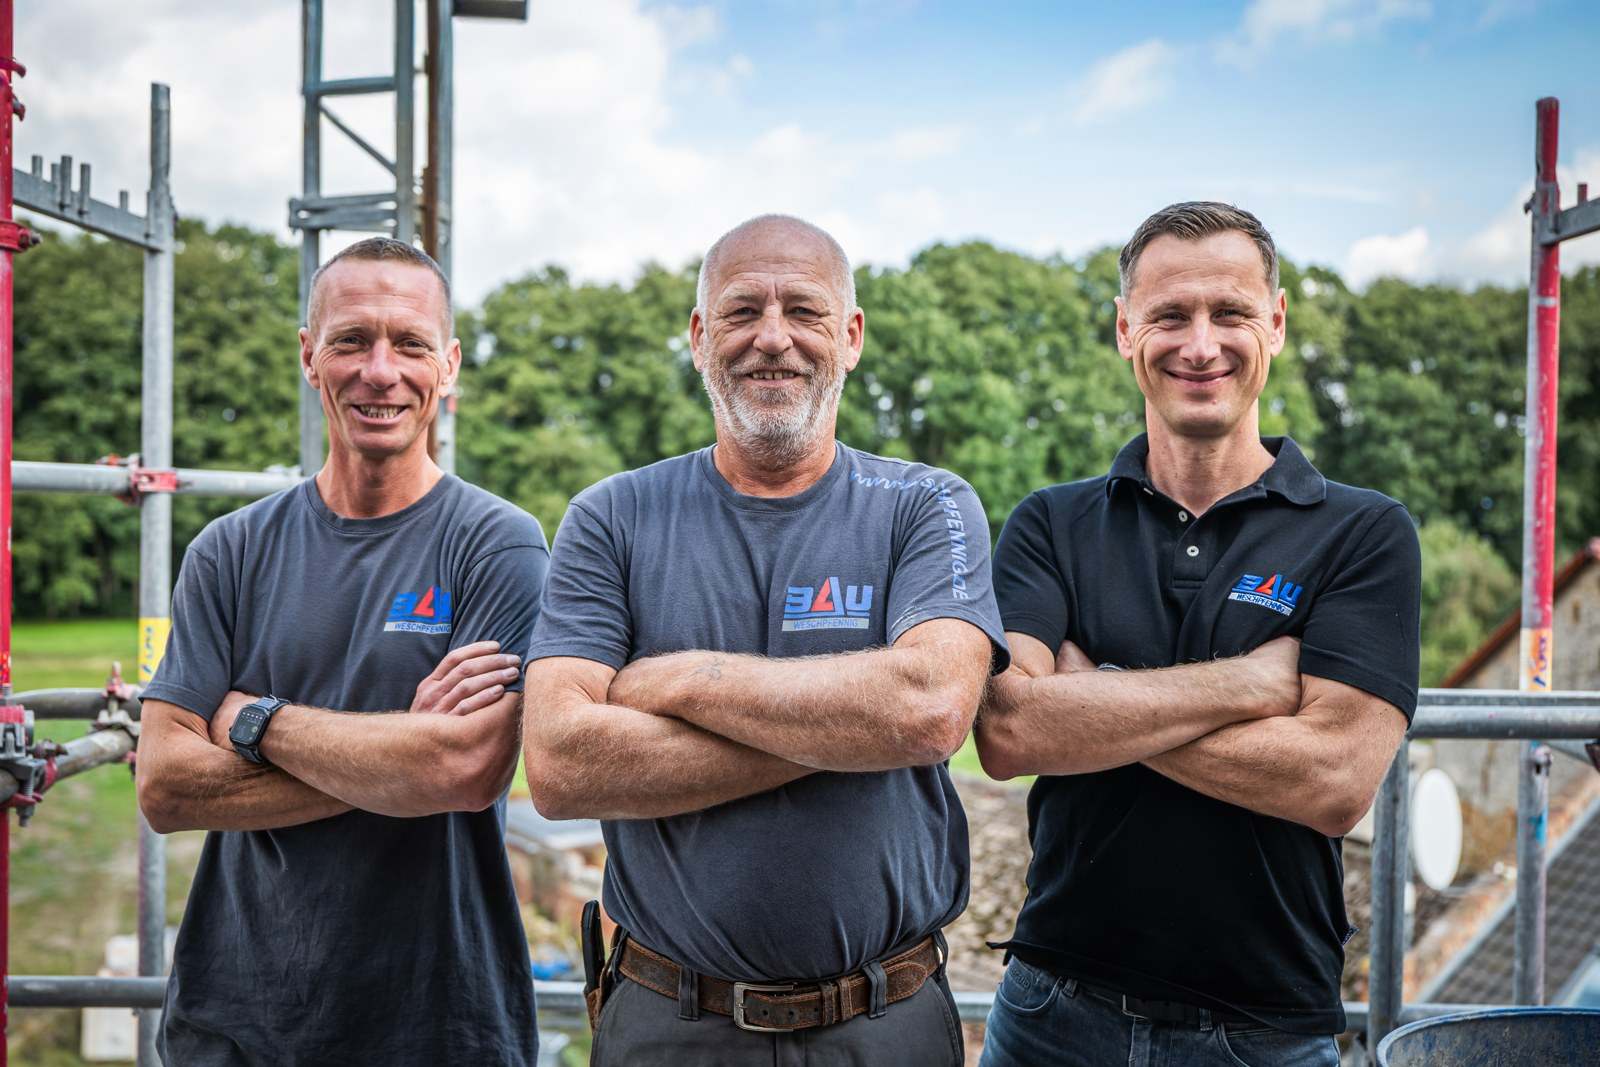
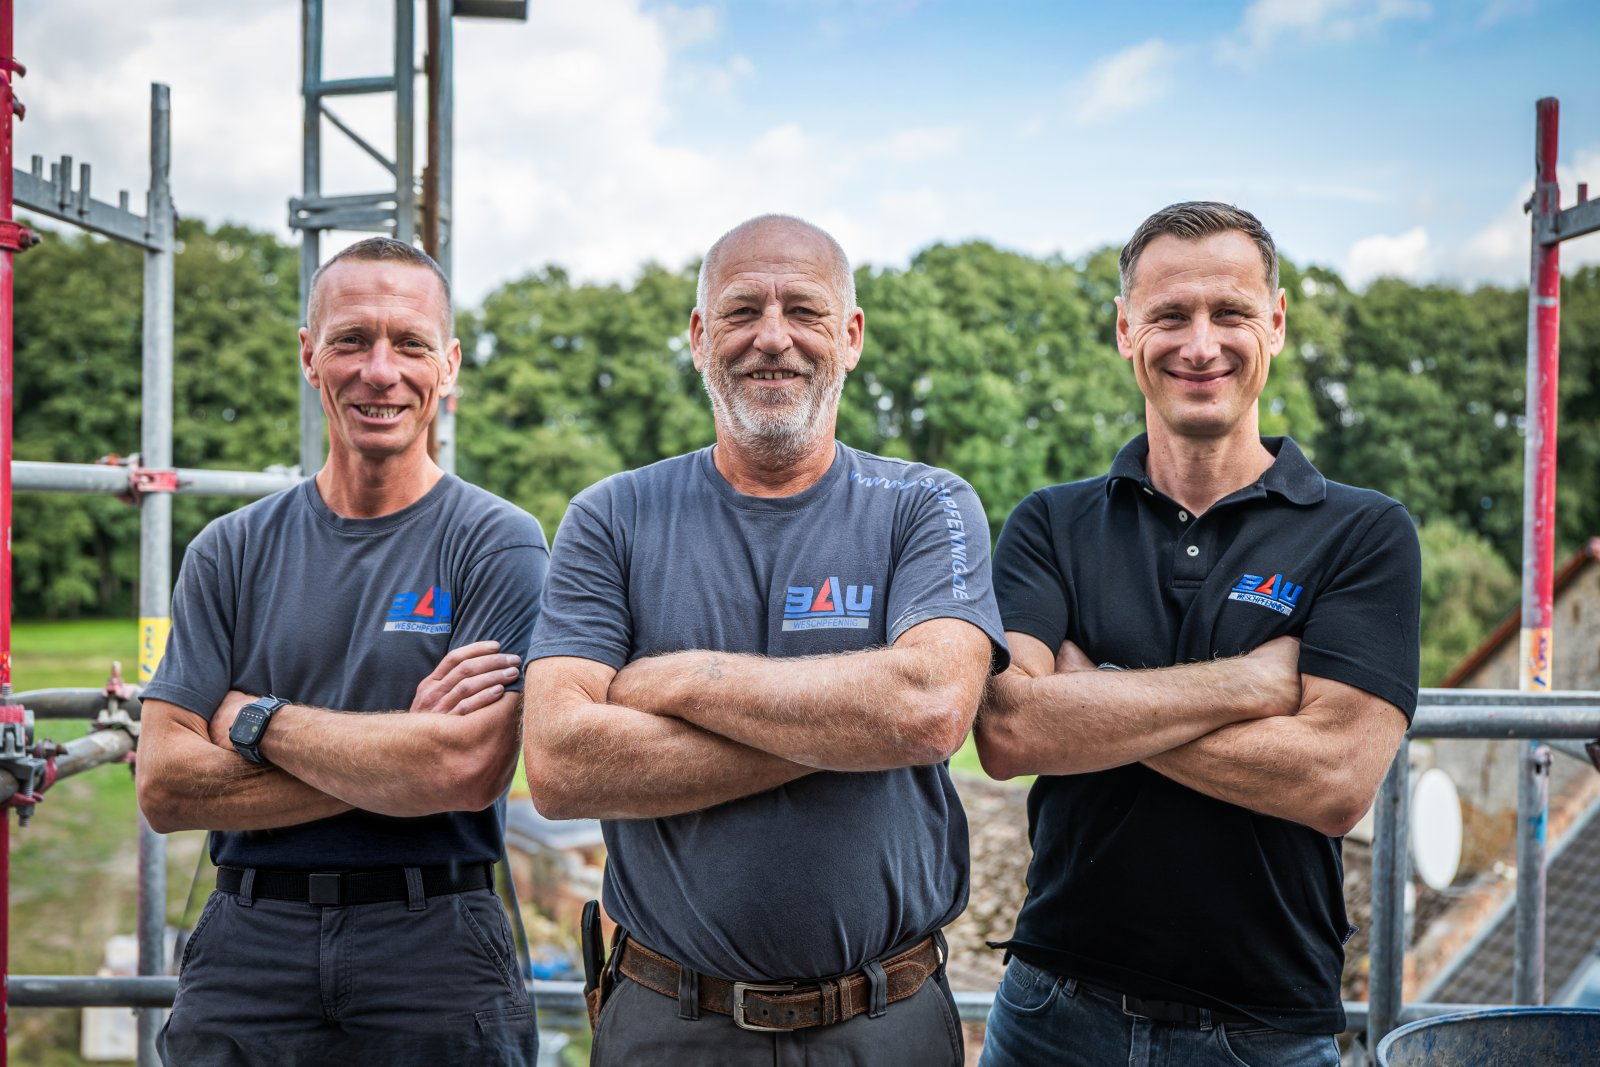
Alle 9 Mitarbeiterfotos retuschiert: Kleidung sauber, Shirts in der Hose, Mikros entfernt
16 gesichtsfreie Ausschnitte über Higgsfield (gpt_image_2_5) bearbeitet und mit
tools/pipeline.py pixelgenau zurückgesetzt: ECC-Ausrichtung, Farbangleich, Korn,
Kleidungsmaske ohne Haut, Logos und Schuhe. Vorher-Nachher pro Ausschnitt und
Sammelvorschau unter retusche/.

Claude-Session: https://claude.ai/code/session_01ATmKXihqKpP9BjxZJmE5yr

Changed region(s): [[0.0625, 0.7423, 0.375, 0.9897], [0.7812, 0.5567, 0.8125, 0.5876]]

diff --git a/tools/pipeline.py b/tools/pipeline.py
@@ -1,0 +1,97 @@
+"""Batch pipeline: cut crops, build clothing masks, composite edits back.
+usage: pipeline.py cut | mask | composite | grid
+"""
+import sys, os, json, subprocess, cv2, numpy as np
+ORIG = '/home/user/audio'
+OUT  = '/home/user/audio/retusche'
+# name: (image, box x0,y0,x1,y1, aspect, description)
+CROPS = {
+ '161C': ('BAU-161', (400,2700,2200,3900), '3:2', 'lower torso and grey work trousers of a man in a dark grey-blue t-shirt with crossed arms, scaffolding behind'),
+ '017A': ('BAU-017', (2000,1750,3400,3500), '4:5', 'two men in dark grey-blue company t-shirts and grey work trousers standing in front of a white van with a big blue logo, one hand on hip'),
+ '017B': ('BAU-017', (3250,1750,5350,3430), '5:4', 'three men in dark grey-blue company t-shirts and grey work trousers in front of a white van, arms crossed or on hips'),
+ '040A': ('BAU-040', (1900,1600,4033,4000), '8:9', 'two men in dark grey-blue company t-shirts and grey work trousers with tool pouches, arms crossed, white van with blue lettering behind'),
+ '066A': ('BAU-066', (2900,1750,4700,4000), '4:5', 'a man in a dark grey-blue t-shirt holding a blue clipboard, brown leather belt, grey trousers, white van with blue and red logo behind'),
+ '181A': ('BAU-181', (1200,1450,2500,3400), '2:3', 'a crouching man in a dark grey-blue t-shirt and grey work trousers on a wooden roof deck'),
+ '181B': ('BAU-181', (3250,1400,4650,3500), '2:3', 'a man in a dark grey-blue t-shirt with company logo and grey work trousers with a leather belt, standing next to a dark brick chimney'),
+ '233A': ('BAU-233', (1700,2500,3300,4900), '2:3', 'a man in a black polo shirt with hands on hips and light grey jeans standing on a scaffold deck, cement sacks and buckets behind'),
+ '247A': ('BAU-247', (700,1750,1937,3400), '3:4', 'an older man in a dark grey-blue t-shirt with company logo, holding a trowel, dark bricks in front'),
+ '247B': ('BAU-247', (2800,1700,4525,4000), '3:4', 'a man in a dark grey-blue t-shirt with company logo and grey work trousers, one arm extended holding a trowel, scaffolding behind'),
+ '250A': ('BAU-250', (870,1900,2070,3400), '4:5', 'an older man in a dark grey-blue t-shirt with company logo holding a trowel over dark bricks'),
+ '250B': ('BAU-250', (2950,1650,4713,4000), '3:4', 'a man in a dark grey-blue t-shirt with company logo and grey work trousers, arm extended holding a trowel, scaffolding behind'),
+ '461A': ('BAU-461', (1100,1450,2337,3650), '9:16', 'a man in a dark grey-blue polo shirt with company logo and grey work trousers standing next to a yellow wheel loader'),
+ '461B': ('BAU-461', (2100,1100,3000,2450), '2:3', 'a man in a dark grey-blue t-shirt and dark work trousers sitting in the cab of a yellow wheel loader'),
+ '461C': ('BAU-461', (2600,1200,3866,3450), '9:16', 'a young man in a dark grey-blue t-shirt with company logo and grey work trousers standing in front of a yellow wheel loader, dusty work boots'),
+ '461D': ('BAU-461', (3680,1250,5086,3750), '9:16', 'two men in dark grey-blue company t-shirts and grey work trousers, one with a foot on a concrete block, giving thumbs up'),
+}
+PROMPT = ("Photo retouching task on a crop of a real photograph: {desc}. "
+ "Make the clothing look clean and tidy: remove all dust, cement, paint and dirt stains from the t-shirts and polo shirts so they look freshly washed; "
+ "make the work trousers about 70 percent cleaner, keeping a little natural wear; tuck any untucked shirt hem neatly and completely into the trousers so the waistband and belt are visible; "
+ "remove any clip-on microphones or similar stray objects on the shirts. "
+ "Keep everything else pixel-identical: same framing and pose, same skin, hands and arm hair, same watches and belts, same company logos with the same text and position, same background, same colours, same natural photographic grain and sharpness. "
+ "Do not beautify, do not change the composition, do not add anything.")
+
+def cut():
+    from PIL import Image
+    cache = {}
+    for k,(img,b,ar,_) in CROPS.items():
+        im = cache.setdefault(img, Image.open(f'{ORIG}/{img}.jpg'))
+        c = im.crop(b); c.save(f'crop_{k}.png'); print(k, c.size, ar)
+
+def cloth_mask(crop, vmax_blue=215, vmax_grey=140, smax_grey=70):
+    hsv = cv2.cvtColor(crop, cv2.COLOR_BGR2HSV); h,s,v = cv2.split(hsv)
+    # logos / strongly saturated prints stay original
+    logo = ((s>=110)&(v>=90)).astype(np.uint8)*255
+    logo = cv2.dilate(logo, cv2.getStructuringElement(cv2.MORPH_ELLIPSE,(31,31)))
+    skin = ((h<=25)&(s>=45)&(v>=80)).astype(np.uint8)*255
+    skin = cv2.dilate(skin, cv2.getStructuringElement(cv2.MORPH_ELLIPSE,(21,21)))
+    cloth = (((h>=95)&(h<=135)&(v<=vmax_blue)) | ((s<=smax_grey)&(v<=vmax_grey))).astype(np.uint8)*255
+    cloth[skin>0]=0
+    k = cv2.getStructuringElement(cv2.MORPH_ELLIPSE,(61,61))
+    cloth = cv2.morphologyEx(cloth, cv2.MORPH_CLOSE, k)
+    # fill enclosed holes (bright dust spots inside clothing)
+    inv = cv2.bitwise_not(cloth); ff = inv.copy(); hh,ww = inv.shape
+    m2 = np.zeros((hh+2,ww+2),np.uint8); cv2.floodFill(ff, m2, (0,0), 0)
+    for pt in [(ww-1,0),(0,hh-1),(ww-1,hh-1)]:
+        m2[:]=0; cv2.floodFill(ff, m2, pt, 0)
+    cloth = cv2.bitwise_or(cloth, ff)
+    cloth = cv2.morphologyEx(cloth, cv2.MORPH_OPEN, cv2.getStructuringElement(cv2.MORPH_ELLIPSE,(9,9)))
+    n,lab,st,_ = cv2.connectedComponentsWithStats(cloth); keep=np.zeros_like(cloth)
+    for i in range(1,n):
+        if st[i,cv2.CC_STAT_AREA] > 0.01*cloth.size: keep[lab==i]=255
+    keep[skin>0]=0; keep[logo>0]=0
+    return cv2.erode(keep, cv2.getStructuringElement(cv2.MORPH_ELLIPSE,(9,9)))
+
+_SC={'017A':1540,'017B':1480,'181A':1560,'233A':2200,'461A':1980,'461B':1215,'461C':2025,'461D':2250}
+def mask():
+    for k in CROPS:
+        c = cv2.imread(f'crop_{k}.png')
+        m = cloth_mask(c, 230, 205, 80) if k in ('247A','247B','250A','250B') else cloth_mask(c)
+        if k in _SC: m[_SC[k]:,:]=0
+        cv2.imwrite(f'mask_{k}.png', m)
+        ov = c.copy(); ov[m>0] = (0.5*ov[m>0] + (0,0,127)).astype(np.uint8)
+        small = cv2.resize(ov, None, fx=600/ov.shape[0], fy=600/ov.shape[0]); cv2.imwrite(f'maskov_{k}.jpg', small, [cv2.IMWRITE_JPEG_QUALITY,75])
+        print(k, round(m.mean()/255,2))
+
+def composite():
+    by_img = {}
+    for k,(img,b,ar,_) in CROPS.items(): by_img.setdefault(img,[]).append((k,b))
+    os.makedirs(OUT, exist_ok=True)
+    for img, items in by_img.items():
+        src = f'{ORIG}/{img}.jpg'
+        if img=='BAU-161': src = 'BAU-161_retusche.jpg'   # already carries A and B
+        cur = src
+        for i,(k,b) in enumerate(items):
+            if not os.path.exists(f'ed_{k}.png'): print('missing', k); continue
+            nxt = f'tmp_{img}_{i}.png'
+            r = subprocess.run(['python3','composite.py',cur,nxt,'box=%d,%d,%d,%d'%b,f'edited=ed_{k}.png',f'mask=mask_{k}.png','feather=30'],capture_output=True,text=True)
+            print(k, r.stdout.strip().splitlines()[0], r.stdout.strip().splitlines()[-1]); cur = nxt
+        im = cv2.imread(cur); cv2.imwrite(f'{OUT}/{img}.jpg', im, [cv2.IMWRITE_JPEG_QUALITY,97])
+        # before/after per crop
+        o = cv2.imread(f'{ORIG}/{img}.jpg')
+        for k,b in items:
+            x0,y0,x1,y1=b; a=o[y0:y1,x0:x1]; c=im[y0:y1,x0:x1]
+            ba=np.hstack([a,np.full((a.shape[0],20,3),255,np.uint8),c]); sc=1400/ba.shape[1]
+            cv2.imwrite(f'{OUT}/{img}_vorher_nachher_{k[-1]}.jpg', cv2.resize(ba,None,fx=sc,fy=sc,interpolation=cv2.INTER_AREA), [cv2.IMWRITE_JPEG_QUALITY,88])
+
+if __name__=='__main__':
+    globals()[sys.argv[1]]()
